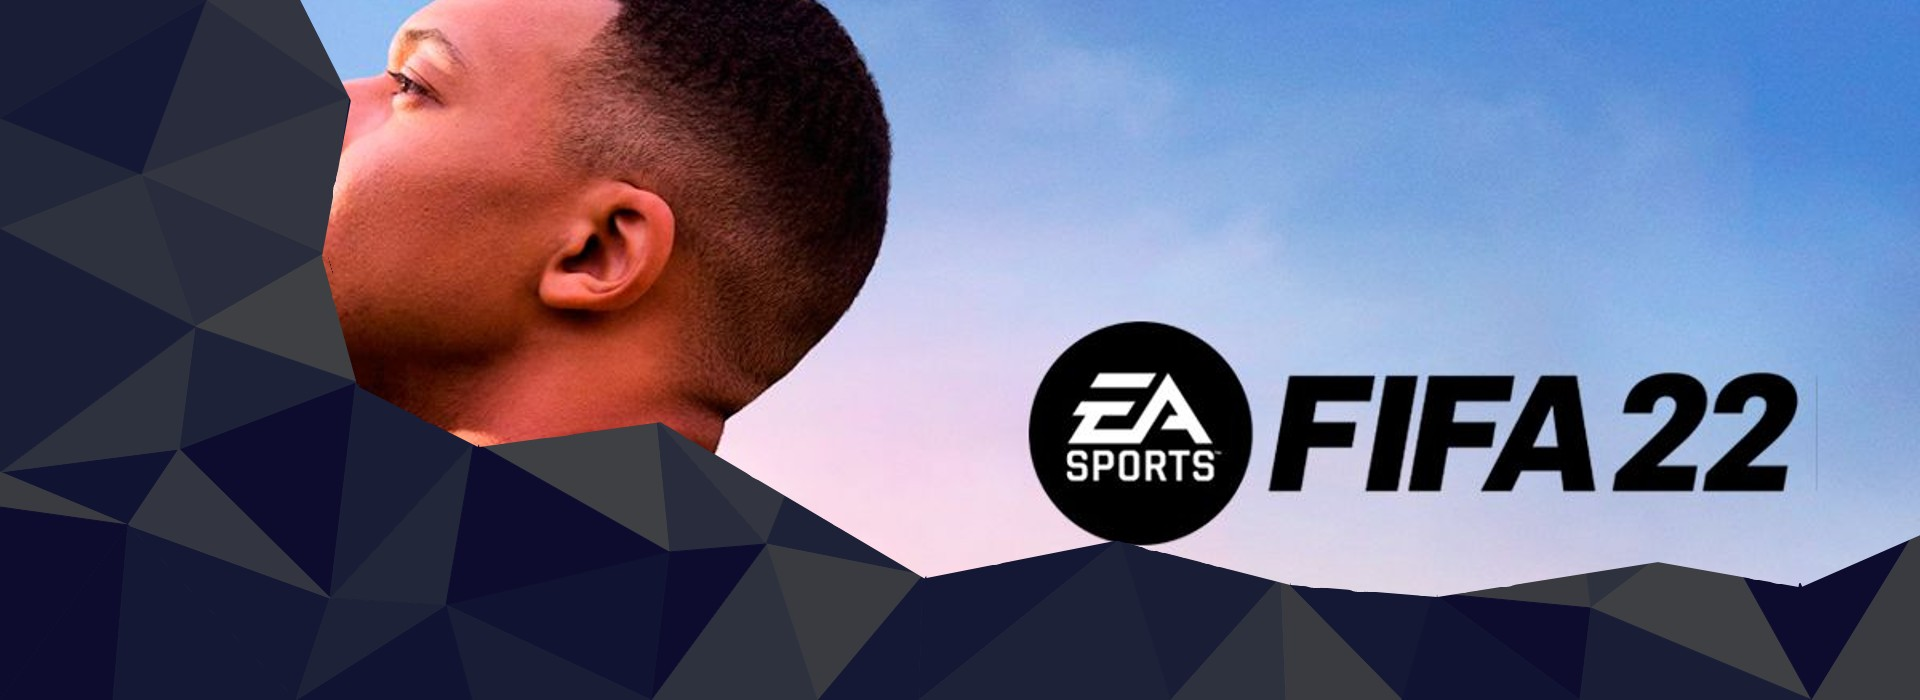
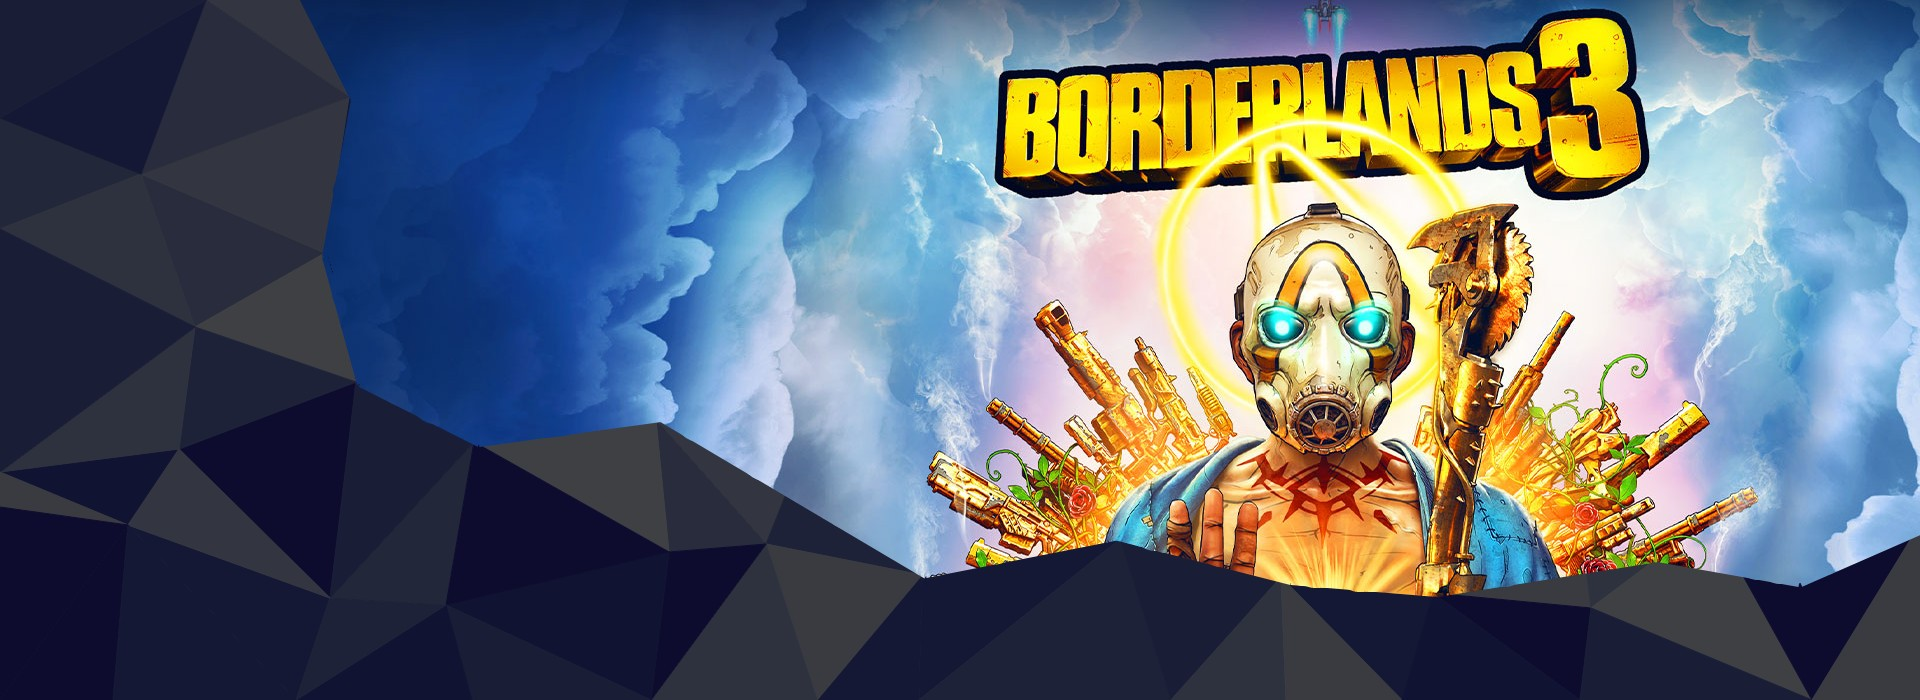
actualizacion 31/3

diff --git a/index.html b/index.html
@@ -33,7 +33,7 @@
                     <div class="navbar-nav">
                         <a class="m-1 select" href="pages/descargar.html">Descargas</a>
                         <a class="m-1 select" href="pages/capturas.html">Capturas</a>
-                        <a class="m-1 select" href="pages/guias.html">Gameplay</a>
+                        <a class="m-1 select" href="pages/guias.html">Gameplays</a>
                         <a class="m-1 select" href="pages/contactanos.html">Contactanos</a>
                     </div>
                 </div>
@@ -61,23 +61,23 @@
                         <div class="carousel-caption d-md-block">
                             <h3 class="text-tipo2">Epic Games</h3>
                             <p class="text-tipo2">Descarga tu juego gratis de esta semana</p>
-                            <a href="https://store.epicgames.com/es-MX/p/demons-tilt" target="_blank"><button class="boton">Consiguelo</button></a>
+                            <a href="https://store.epicgames.com/es-MX/p/city-of-brass" target="_blank"><button class="boton">Consiguelo</button></a>
                         </div>
                     </div>
                     <div class="carousel-item mislider">
                         <img src="multimedia/images/slider/slider1.jpg" class="d-block w-100" alt="">
                         <div class="carousel-caption d-md-block">
                             <h3 class="text-tipo2">God Of War</h3>
-                            <p class="text-tipo2">Nueva galeria de capturas in-game</p>
-                            <a href="pages/capturas.html"><button class="boton">Ver galeria</button></a>
+                            <p class="text-tipo2">Nuevos videos Derrotando Valkirias</p>
+                            <a href="pages/guias.html"><button class="boton">Ver videos</button></a>
                         </div>
                     </div>          
                     <div class="carousel-item mislider">
                         <img src="multimedia/images/slider/slider2.jpg" class="d-block w-100" alt="imagen carrusel">
                         <div class="carousel-caption d-md-block">
-                            <h3 class="text-tipo2">Rogue Company</h3>
+                            <h3 class="text-tipo2">Warframe</h3>
                             <p class="text-tipo2">Ultimo juego agregado</p>
-                            <a href="https://www.roguecompany.com/" target="_blank"><button class="boton">Descargalo ya</button></a>
+                            <a href="https://www.warframe.com/es/landing" target="_blank"><button class="boton">Descargalo ya</button></a>
                         </div>
                     </div>
                     <div class="carousel-item mislider">
@@ -92,8 +92,8 @@
                         <img src="multimedia/images/slider/slider5.jpg" class="d-block w-100" alt="imagen carrusel">
                         <div class="carousel-caption d-md-block">
                             <h3 class="text-tipo2">Recomendacion</h3>
-                            <p class="text-tipo2">FIFA 22<br>67% off hasta el 28/3</p>
-                            <a href="https://store.steampowered.com/app/1506830/FIFA_22/" target="_blank"><button class="boton">Compralo</button></a>
+                            <p class="text-tipo2">Borderlands 3<br>75% off hasta el 7/4</p>
+                            <a href="https://store.epicgames.com/es-MX/p/borderlands-3" target="_blank"><button class="boton">Compralo</button></a>
                         </div>
                     </div>
                 </div>
@@ -113,29 +113,32 @@
             <h2 class="sub_title text-tipo1">Ultimas noticias</h2>
             <div class="info_1 fondo">
                 <div>                
-                    <h3 class="texto_h3 titulo_info1">Street Fighter V: Champion Edition</h3>
-                    <p class="texto_p parrafo_info1">¡Sumérgete en el espíritu competitivo del nuevo contenido descargable Capcom Pro Tour 2022 para Street Fighter V, que incluye el escenario "Ring of Arcade", nuevos disfraces de personajes, un color especial para los 45 personajes y más! Disponible el 29 de marzo</p>
+                    <h3 class="texto_h3 titulo_info1">Vampire: the masquerade blood hunt</h3>
+                    <p class="texto_p parrafo_info1">Bloodhunt es un emocionante juego battle royale gratuito ambientado en el universo de Vampire: The Masquerade. 
+                        Una traición desleal ha provocado una guerra entre vampiros, que también son el blanco de aniquilación de la sociedad secreta conocida como la Entidad. Usa tus poderes sobrenaturales, armas e ingenio en este juego battle royale en tercera persona para restaurar la mascarada. <br>Disfrutalo este 27 de abril</p>
                 </div> 
                 <div> 
-                    <iframe width="560" height="315" src="https://www.youtube.com/embed/Wka47Xz6T3c" title="YouTube video player" frameborder="0" allow="accelerometer; autoplay; clipboard-write; encrypted-media; gyroscope; picture-in-picture" allowfullscreen></iframe>
+                    <iframe width="560" height="315" src="https://www.youtube.com/embed/i3X937YcpWw" title="YouTube video player" frameborder="0" allow="accelerometer; autoplay; clipboard-write; encrypted-media; gyroscope; picture-in-picture" allowfullscreen></iframe>
                 </div> 
             </div>
+
             <div class="info_2 fondo">
                 <div class="video_2">
-                    <iframe width="560" height="315" src="https://www.youtube.com/embed/I7k8R7z8sIg" title="YouTube video player" frameborder="0" allow="accelerometer; autoplay; clipboard-write; encrypted-media; gyroscope; picture-in-picture" allowfullscreen></iframe>
+                    <iframe width="560" height="315" src="https://www.youtube.com/embed/TZGpAQczMGU" title="YouTube video player" frameborder="0" allow="accelerometer; autoplay; clipboard-write; encrypted-media; gyroscope; picture-in-picture" allowfullscreen></iframe>
                 </div>
                 <div>
-                    <h3 class="texto_h3 titulo_info2">League of Legends: wild rift</h3>
-                    <p class="texto_p parrafo_info2">Cinematica de wild rift para la llegada del evento protectores de jonia y 2 nuevos personajes jugables: Karma y Shen, los cuales ya existian en el clasico juego de PC desarrollado por Riot games.</p>  
+                    <h3 class="texto_h3 titulo_info2">One piece: ODYSSEY</h3>
+                    <p class="texto_p parrafo_info2">Bandai Namco Entertainment anunció con motivo del 25 aniversario de One Piece el que parece ser el videojuego basado en el manganime más ambicioso hasta la fecha. los jugadores vivirán una aventura completamente nueva junto a personajes conocidos como Luffy, Zoro y Nami, y otros inéditos en la serie. Llegará en algún momento de 2022 para PC, PS5, Xbox Series y PS4</p>  
                 </div>    
             </div>
+
             <div class="info_1 fondo">
                 <div>                
-                    <h3 class="texto_h3 titulo_info1">Flight Simulator</h3>
-                    <p class="texto_p parrafo_info1">¡Nueva actualización gratuita disponible a partir de este 24 de amrzo! Experimenta el esplendor de la Península Ibérica como nunca antes en Microsoft Flight Simulator.</p>
+                    <h3 class="texto_h3 titulo_info1">League of legends</h3>
+                    <p class="texto_p parrafo_info1">Nuevo capitulo de Tacticas de la grieta, aprende nuevos trucos y pon a temblar a todos tus enemigos con la Cazarrecompensas. Si bien Miss Fortune parece una campeona sencilla, varias de sus habilidades tienen un potencial altísimo para ganar tus partidas de League Of Legends.</p>
                 </div> 
                 <div> 
-                    <iframe width="560" height="315" src="https://www.youtube.com/embed/gM8lYEygGAI" title="YouTube video player" frameborder="0" allow="accelerometer; autoplay; clipboard-write; encrypted-media; gyroscope; picture-in-picture" allowfullscreen></iframe>
+                    <iframe width="560" height="315" src="https://www.youtube.com/embed/Wb9JdJ3mgb0" title="YouTube video player" frameborder="0" allow="accelerometer; autoplay; clipboard-write; encrypted-media; gyroscope; picture-in-picture" allowfullscreen></iframe>
                 </div> 
             </div>
         </section>

diff --git a/pages/guias.html b/pages/guias.html
@@ -33,7 +33,7 @@
                     <div class="navbar-nav">
                         <a class="m-1 select" href="descargar.html">Descargas</a>
                         <a class="m-1 select" href="capturas.html">Capturas</a>
-                        <a class="m-1 select" href="guias.html">Gameplay</a>
+                        <a class="m-1 select" href="guias.html">Gameplays</a>
                         <a class="m-1 select" href="contactanos.html">Contactanos</a>
                     </div>
                 </div>
@@ -53,7 +53,7 @@
                         <iframe width="460" height="275" src="https://www.youtube.com/embed/RclyOWEkVrE" title="YouTube video player" frameborder="0" allow="accelerometer; autoplay; clipboard-write; encrypted-media; gyroscope; picture-in-picture" allowfullscreen></iframe>
                     </div>
                     <div>
-                        <h3 class="texto_h3">Kratos vs Valkiria Grirdriful</h3>
+                        <h3 class="texto_h3">Kratos vs Valkiria Geirdriful</h3>
                         <iframe width="460" height="275" src="https://www.youtube.com/embed/y4O8SP-bkQw" title="YouTube video player" frameborder="0" allow="accelerometer; autoplay; clipboard-write; encrypted-media; gyroscope; picture-in-picture" allowfullscreen></iframe>
                     </div>
                     <div>
@@ -68,50 +68,12 @@
                         <h3 class="texto_h3">Kratos vs Valkiria Rota</h3>
                         <iframe width="460" height="275" src="https://www.youtube.com/embed/02VlNoxnhyc" title="YouTube video player" frameborder="0" allow="accelerometer; autoplay; clipboard-write; encrypted-media; gyroscope; picture-in-picture" allowfullscreen></iframe>
                     </div>
-                </div>
-            </div>
-            <div>
-                <h2 class="nombre_juego">Rise Of The Tomb Raider</h2>
-                <div class="guideGalery">
                     <div>
-                        <h3 class="texto_h3">Todas las tumbas opcionales y como completarlas</h3>
-                        <iframe width="460" height="275" src="https://www.youtube.com/embed/IHsXaoLscHc" title="YouTube video player" frameborder="0" allow="accelerometer; autoplay; clipboard-write; encrypted-media; gyroscope; picture-in-picture" allowfullscreen></iframe>
-                    </div>
-                    <div>
-                        <h3 class="texto_h3">Desafio salto de altura en valle geotermico</h3>
-                        <iframe width="460" height="275" src="https://www.youtube.com/embed/7gYA_FKU-4I" title="YouTube video player" frameborder="0" allow="accelerometer; autoplay; clipboard-write; encrypted-media; gyroscope; picture-in-picture" allowfullscreen></iframe>
-                    </div>
-                    <div>
-                        <h3 class="texto_h3">Guia de todos los coleccionables y desafios en siria</h3>
-                        <iframe width="460" height="275" src="https://www.youtube.com/embed/jCAMAPbeExM" title="YouTube video player" frameborder="0" allow="accelerometer; autoplay; clipboard-write; encrypted-media; gyroscope; picture-in-picture" allowfullscreen></iframe>
+                        <h3 class="texto_h3">Kratos vs Valkiria Olrun</h3>
+                        <iframe width="460" height="275" src="https://www.youtube.com/embed/eHakrVhWhEg" title="YouTube video player" frameborder="0" allow="accelerometer; autoplay; clipboard-write; encrypted-media; gyroscope; picture-in-picture" allowfullscreen></iframe>
                     </div>
                 </div>
-            </div>
-            <div>
-                <h2 class="nombre_juego">League Of Legends</h2>
-                <div class="guideGalery">
-                    <div>
-                        <h3 class="texto_h3">Runas, combos y tips para jugar VI</h3>
-                        <iframe width="460" height="275" src="https://www.youtube.com/embed/xCDv02IIaKg" title="YouTube video player" frameborder="0" allow="accelerometer; autoplay; clipboard-write; encrypted-media; gyroscope; picture-in-picture" allowfullscreen></iframe>
-                    </div>
-                    <div>
-                        <h3 class="texto_h3">Todas las misiones del festival leyenda lunar</h3>
-                        <iframe width="460" height="275" src="https://www.youtube.com/embed/HqEO6srN6KM" title="YouTube video player" frameborder="0" allow="accelerometer; autoplay; clipboard-write; encrypted-media; gyroscope; picture-in-picture" allowfullscreen></iframe>
-                    </div>
-                    <div>
-                        <h3 class="texto_h3">Guia completa de Zeri</h3>
-                        <iframe width="460" height="275" src="https://www.youtube.com/embed/cXPYqfVFWvA" title="YouTube video player" frameborder="0" allow="accelerometer; autoplay; clipboard-write; encrypted-media; gyroscope; picture-in-picture" allowfullscreen></iframe>
-                    </div>
-                    <div>
-                        <h3 class="texto_h3">Encuentra tu rol</h3>
-                        <iframe width="460" height="275" src="https://www.youtube.com/embed/O8nMehFGcQY" title="YouTube video player" frameborder="0" allow="accelerometer; autoplay; clipboard-write; encrypted-media; gyroscope; picture-in-picture" allowfullscreen></iframe>
-                    </div>
-                    <div>
-                        <h3 class="texto_h3">Guia de como controlar las oleadas de subditos</h3>
-                        <iframe width="460" height="275" src="https://www.youtube.com/embed/zUngFuw2U9g" title="YouTube video player" frameborder="0" allow="accelerometer; autoplay; clipboard-write; encrypted-media; gyroscope; picture-in-picture" allowfullscreen></iframe>
-                    </div>
-                </div>
-            </div>
+            </div>    
         </section>
         <!-- Fin seccion gameplay -->
     </main>

diff --git a/pages/descargar.html b/pages/descargar.html
@@ -33,7 +33,7 @@
                     <div class="navbar-nav">
                         <a class="m-1 select" href="descargar.html">Descargas</a>
                         <a class="m-1 select" href="capturas.html">Capturas</a>
-                        <a class="m-1 select" href="guias.html">Gameplay</a>
+                        <a class="m-1 select" href="guias.html">Gameplays</a>
                         <a class="m-1 select" href="contactanos.html">Contactanos</a>
                     </div>
                 </div>
@@ -44,6 +44,20 @@
     <main>
         <h1 class="title">Descarga los mejores juegos para tu pc</h1>
         <!-- Inicio secciones de juegos y descargas -->
+        <section class="fondo">
+            <h2 class="nombre_juego">Warframe</h2>
+            <div class="descargarJuegos">
+                <iframe width="560" height="315" src="https://www.youtube.com/embed/2Wus_pXKRc4" title="YouTube video player" frameborder="0" allow="accelerometer; autoplay; clipboard-write; encrypted-media; gyroscope; picture-in-picture" allowfullscreen></iframe>
+                <div>
+                    <h3 class="texto_h3">descarga por los siguientes metodos</h3>
+                    <div>
+                        <a href="https://www.warframe.com/es/landing" target="_blank"><img src="../multimedia/images/logos/pag_oficial.png" alt="Rogue company desde web"></a>
+                        <a href="https://store.epicgames.com/es-MX/p/warframe" target="_blank"><img src="../multimedia/images/logos/Epic_Games_logo.png" alt="Warframe desde epic"></a>
+                        <a href="https://store.steampowered.com/app/230410/Warframe/" target="_blank"><img src="../multimedia/images/logos/steam_logo.png" alt="Warframe desde steam"></a>  
+                    </div>
+                </div>
+            </div>
+        </section>
         <section class="fondo">
             <h2 class="nombre_juego">League of legends</h2>
             <div class="descargarJuegos">

diff --git a/pages/contactanos.html b/pages/contactanos.html
@@ -32,7 +32,7 @@
                     <div class="navbar-nav">
                         <a class="m-1 select" href="descargar.html">Descargas</a>
                         <a class="m-1 select" href="capturas.html">Capturas</a>
-                        <a class="m-1 select" href="guias.html">Gameplay</a>
+                        <a class="m-1 select" href="guias.html">Gameplays</a>
                         <a class="m-1 select" href="contactanos.html">Contactanos</a>
                     </div>
                 </div>
@@ -45,10 +45,7 @@
         <!-- Inicio seccion quienes somos -->
         <section class="somos somos1">
             <h2 class="sub_title">Quienes somos?</h2>
-            <p class="texto_p">Este sitio web fue creado por Facundo Tovagliare como proyecto
-            de su curso de desarrollo web en universidad CODERHOUSE
-            El sitio se dedica a informar y mostrar diferentes aspectos relacionados a los videojuegos  
-            y de donde ademas podran encontar links seguros de donde descargar los juegos</p>
+            <p class="texto_p">somos un sitio Web dedicado a los videojuegos, aqui podras encontrar noticias, juegos para descargar, capturas de imagenes in-game, videos y mucho mas</p>
         </section>
         <!-- Fin seccion quienes somos -->
         <!-- Inicio seccion contactanos -->

diff --git a/pages/capturas.html b/pages/capturas.html
@@ -33,7 +33,7 @@
                     <div class="navbar-nav">
                         <a class="m-1 select" href="descargar.html">Descargas</a>
                         <a class="m-1 select" href="capturas.html">Capturas</a>
-                        <a class="m-1 select" href="guias.html">Gameplay</a>
+                        <a class="m-1 select" href="guias.html">Gameplays</a>
                         <a class="m-1 select" href="contactanos.html">Contactanos</a>
                     </div>
                 </div>
